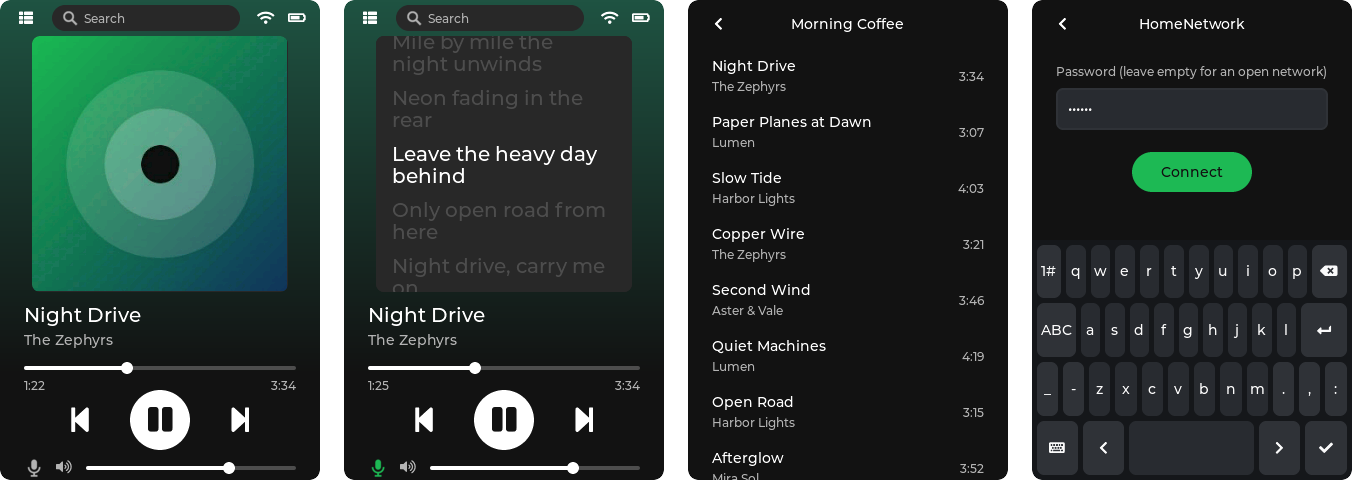
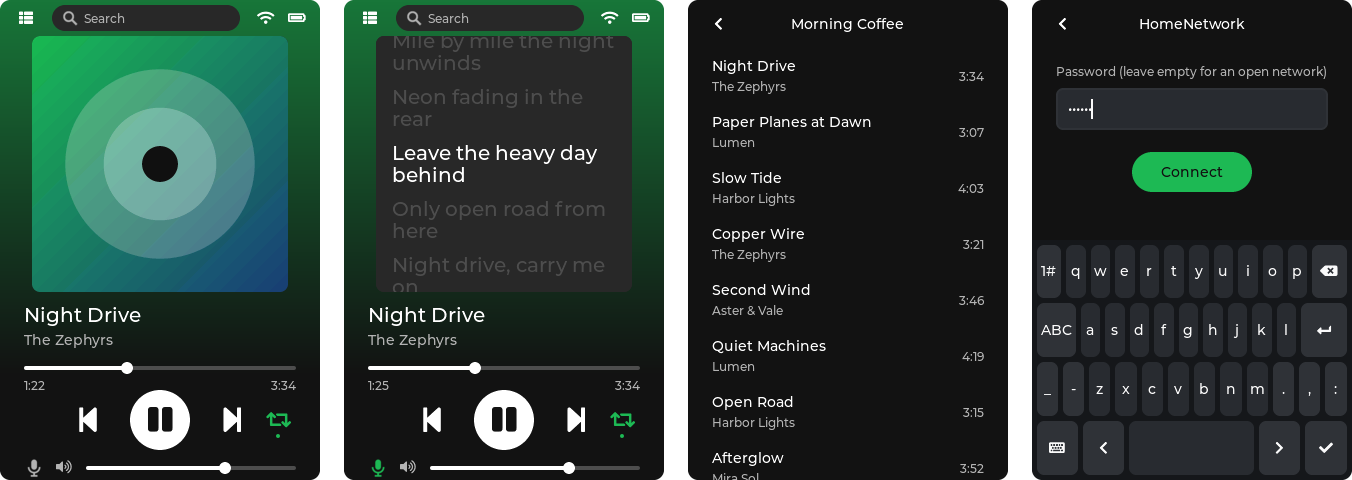
doc: describe repeat and update the screenshot
Mention the repeat control in the feature list, the player's controls
and the library API and events, and retake the screenshot with the
repeat button on.

diff --git a/doc/library.rst b/doc/library.rst
@@ -93,6 +93,9 @@ Session and playback
    * - ``zspot_set_pause()``, ``zspot_next()``, ``zspot_previous()``,
        ``zspot_seek()``, ``zspot_set_volume()``
      - Local playback control, reported to the Spotify app
+   * - ``zspot_set_repeat()``, ``zspot_get_repeat()``
+     - Repeat off, the queue or the track; the Spotify app only knows on and
+       off and shows both repeat modes as on
    * - ``zspot_notify_audio_reached_playback()``,
        ``zspot_notify_audio_ended()``, ``zspot_update_position_ms()``
      - Keep Spotify's view of the playback in step with the output
@@ -136,6 +139,9 @@ Events
    * - ``ZSPOT_EVENT_CONNECTION_LOST``, ``ZSPOT_EVENT_CONNECTION_RESTORED``
      - The connection to Spotify dropped or is back; the library reconnects
        on its own
+   * - ``ZSPOT_EVENT_REPEAT``
+     - The repeat mode changed, from the app or ``zspot_set_repeat()``
+       (``repeat``)
 
 PCM callback
 ************

diff --git a/doc/player.rst b/doc/player.rst
@@ -39,6 +39,11 @@ Using it
      - Your Library: Liked Songs and playlists
    * - Microphone button
      - Switch between cover and lyrics
+   * - Repeat button
+     - Cycle through off, repeat the queue and repeat the track (shown with
+       a "1"). The Spotify app shows either repeat as on, and its repeat
+       toggle turns the button on and off. Skipping ahead ends repeating the
+       track, as in the app.
 
 Wi-Fi credentials are stored on the device. Once it is connected, select it
 in the Spotify app; the layout adapts to the resolution and orientation of

diff --git a/README.md b/README.md
@@ -14,8 +14,8 @@ as a Zephyr module.
 <p align="center"><em>Now Playing, lyrics, a playlist from Your Library and the Wi-Fi password entry, on native_sim with demo data.</em></p>
 
 - Shows up as a device in the Spotify app and plays through an I2S DAC.
-- Now Playing screen with cover art, progress, seeking, transport and volume
-  controls.
+- Now Playing screen with cover art, progress, seeking, transport, repeat
+  and volume controls.
 - Search, Your Library (Liked Songs and playlists) and synced lyrics on the
   device.
 - Wi-Fi setup on the screen.

diff --git a/doc/index.rst b/doc/index.rst
@@ -27,8 +27,8 @@ Features
 ********
 
 - Shows up as a device in the Spotify app and plays through an I2S DAC.
-- Now Playing screen with cover art, progress, seeking, transport and volume
-  controls.
+- Now Playing screen with cover art, progress, seeking, transport, repeat
+  and volume controls.
 - Search, Your Library (Liked Songs and playlists) and synced lyrics on the
   device.
 - Wi-Fi setup on the screen, including forgetting stored networks.
